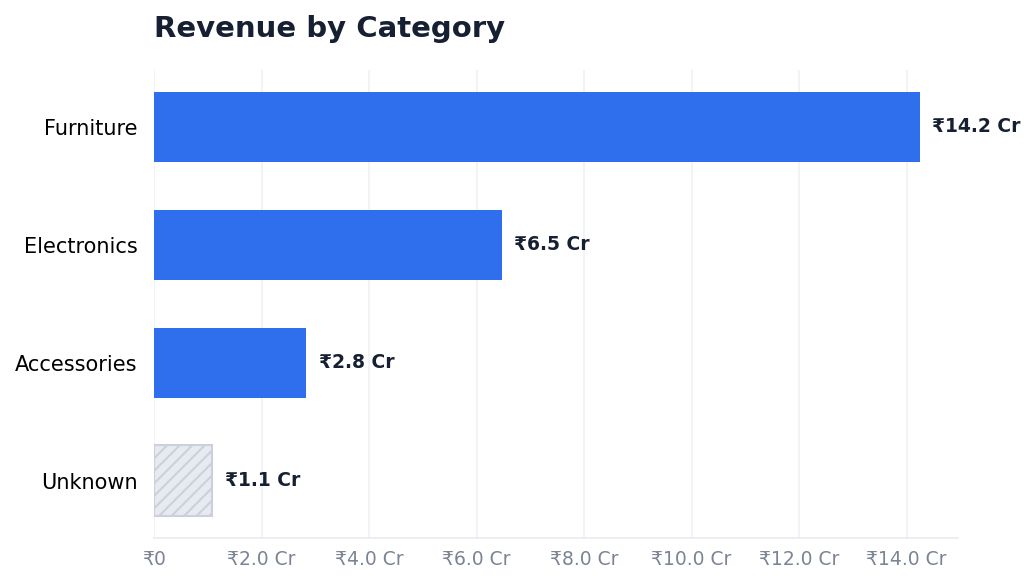
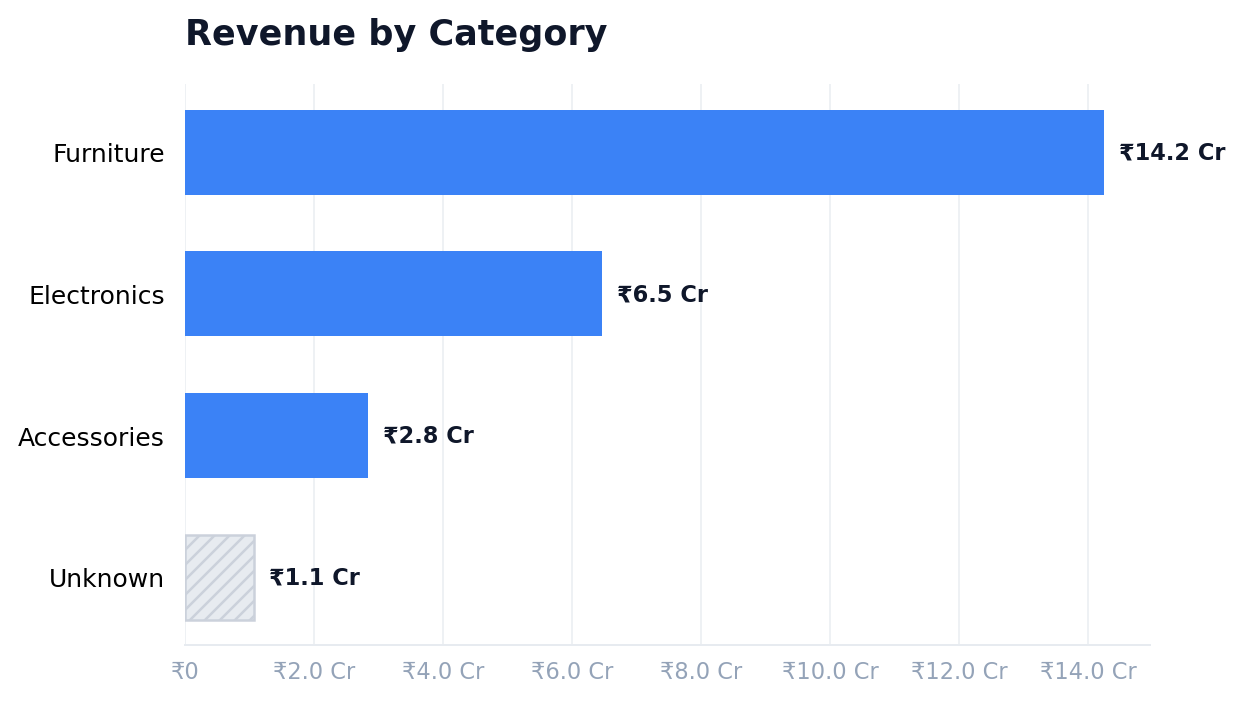
feat: implement sales report generation and visual chart export functionality

diff --git a/reports/business-performance-report.html b/reports/business-performance-report.html
@@ -7,22 +7,22 @@
 
     <style>
         :root {
-            --bg: #f3f6fa;
+            --bg: #f4f7fe;
             --surface: #ffffff;
-            --surface-soft: #f7f9fc;
-            --border: #e7ebf0;
-            --text: #172033;
-            --muted: #7b8494;
-            --primary: #2f6fed;
-            --primary-soft: #edf3ff;
-            --success: #159570;
-            --success-soft: #eaf8f3;
-            --warning: #c77b16;
-            --warning-soft: #fff7e8;
-            --danger: #e05252;
-            --danger-soft: #fff0f0;
-            --shadow: 0 8px 24px rgba(25, 39, 67, 0.055);
-            --radius: 18px;
+            --surface-soft: #f8f9fa;
+            --border: #e2e8f0;
+            --text: #1e293b;
+            --muted: #64748b;
+            --primary: #3b82f6;
+            --primary-soft: #eff6ff;
+            --success: #10b981;
+            --success-soft: #d1fae5;
+            --warning: #f59e0b;
+            --warning-soft: #fef3c7;
+            --danger: #ef4444;
+            --danger-soft: #fee2e2;
+            --shadow: 0 10px 40px -10px rgba(0,0,0,0.08);
+            --radius: 20px;
         }
 
         * { box-sizing: border-box; }
@@ -117,12 +117,14 @@
         .kpi-card {
             position: relative;
             overflow: hidden;
-            min-height: 108px;
-            padding: 16px 18px;
-            border: 1px solid var(--border);
+            min-height: 120px;
+            padding: 20px 24px;
             border-radius: var(--radius);
             background: var(--surface);
             box-shadow: var(--shadow);
+            display: flex;
+            flex-direction: column;
+            justify-content: space-between;
         }
 
         .kpi-card::after {
@@ -140,33 +142,36 @@
             position: relative;
             z-index: 1;
             color: var(--muted);
-            font-size: 10px;
-            font-weight: 800;
-            letter-spacing: .08em;
-            text-transform: uppercase;
+            font-size: 13px;
+            font-weight: 600;
         }
 
         .kpi-value {
             position: relative;
             z-index: 1;
-            margin-top: 6px;
-            font-size: clamp(21px, 2.5vw, 29px);
+            margin-top: 8px;
+            font-size: clamp(24px, 3vw, 32px);
             font-weight: 800;
-            line-height: 1.05;
-            letter-spacing: -.03em;
+            line-height: 1.1;
+            color: var(--text);
         }
 
         .kpi-context {
             position: relative;
             z-index: 1;
-            margin-top: 6px;
-            color: var(--muted);
-            font-size: 10px;
+            margin-top: 8px;
+            font-size: 11px;
+            font-weight: 600;
+            display: inline-flex;
+            align-items: center;
+            padding: 4px 8px;
+            border-radius: 999px;
+            width: max-content;
         }
 
-        .kpi-danger::after { background: var(--danger-soft); }
-        .kpi-success::after { background: var(--success-soft); }
-        .kpi-warning::after { background: var(--warning-soft); }
+        .kpi-danger .kpi-context { background: var(--danger-soft); color: var(--danger); }
+        .kpi-success .kpi-context { background: var(--success-soft); color: var(--success); }
+        .kpi-warning .kpi-context { background: var(--warning-soft); color: var(--warning); }
 
         /* Main visual hierarchy */
         .hero-grid {
@@ -176,7 +181,7 @@
         }
 
         .panel {
-            border: 1px solid var(--border);
+            border: none;
             border-radius: var(--radius);
             background: var(--surface);
             box-shadow: var(--shadow);
@@ -246,13 +251,12 @@
 
         .highlight-card {
             display: grid;
-            grid-template-columns: 34px 1fr auto;
+            grid-template-columns: 42px 1fr auto;
             align-items: center;
-            gap: 10px;
-            min-height: 56px;
-            padding: 9px 10px;
-            border: 1px solid var(--border);
-            border-radius: 12px;
+            gap: 12px;
+            min-height: 64px;
+            padding: 12px;
+            border-radius: 16px;
             background: var(--surface-soft);
         }
 
@@ -350,7 +354,7 @@
 
         .chart-card {
             overflow: hidden;
-            border: 1px solid var(--border);
+            border: none;
             border-radius: var(--radius);
             background: var(--surface);
             box-shadow: var(--shadow);
@@ -395,9 +399,9 @@
         }
 
         .recommendation-card {
-            padding: 15px;
-            border: 1px solid var(--border);
-            border-radius: 14px;
+            padding: 20px;
+            border: none;
+            border-radius: var(--radius);
             background: var(--surface);
             box-shadow: var(--shadow);
         }

diff --git a/src/reporting/html.py b/src/reporting/html.py
@@ -21,22 +21,22 @@ def render_html_report(report, charts, output_path):
 
     <style>
         :root {{
-            --bg: #f3f6fa;
+            --bg: #f4f7fe;
             --surface: #ffffff;
-            --surface-soft: #f7f9fc;
-            --border: #e7ebf0;
-            --text: #172033;
-            --muted: #7b8494;
-            --primary: #2f6fed;
-            --primary-soft: #edf3ff;
-            --success: #159570;
-            --success-soft: #eaf8f3;
-            --warning: #c77b16;
-            --warning-soft: #fff7e8;
-            --danger: #e05252;
-            --danger-soft: #fff0f0;
-            --shadow: 0 8px 24px rgba(25, 39, 67, 0.055);
-            --radius: 18px;
+            --surface-soft: #f8f9fa;
+            --border: #e2e8f0;
+            --text: #1e293b;
+            --muted: #64748b;
+            --primary: #3b82f6;
+            --primary-soft: #eff6ff;
+            --success: #10b981;
+            --success-soft: #d1fae5;
+            --warning: #f59e0b;
+            --warning-soft: #fef3c7;
+            --danger: #ef4444;
+            --danger-soft: #fee2e2;
+            --shadow: 0 10px 40px -10px rgba(0,0,0,0.08);
+            --radius: 20px;
         }}
 
         * {{ box-sizing: border-box; }}
@@ -131,12 +131,14 @@ def render_html_report(report, charts, output_path):
         .kpi-card {{
             position: relative;
             overflow: hidden;
-            min-height: 108px;
-            padding: 16px 18px;
-            border: 1px solid var(--border);
+            min-height: 120px;
+            padding: 20px 24px;
             border-radius: var(--radius);
             background: var(--surface);
             box-shadow: var(--shadow);
+            display: flex;
+            flex-direction: column;
+            justify-content: space-between;
         }}
 
         .kpi-card::after {{
@@ -154,33 +156,36 @@ def render_html_report(report, charts, output_path):
             position: relative;
             z-index: 1;
             color: var(--muted);
-            font-size: 10px;
-            font-weight: 800;
-            letter-spacing: .08em;
-            text-transform: uppercase;
+            font-size: 13px;
+            font-weight: 600;
         }}
 
         .kpi-value {{
             position: relative;
             z-index: 1;
-            margin-top: 6px;
-            font-size: clamp(21px, 2.5vw, 29px);
+            margin-top: 8px;
+            font-size: clamp(24px, 3vw, 32px);
             font-weight: 800;
-            line-height: 1.05;
-            letter-spacing: -.03em;
+            line-height: 1.1;
+            color: var(--text);
         }}
 
         .kpi-context {{
             position: relative;
             z-index: 1;
-            margin-top: 6px;
-            color: var(--muted);
-            font-size: 10px;
+            margin-top: 8px;
+            font-size: 11px;
+            font-weight: 600;
+            display: inline-flex;
+            align-items: center;
+            padding: 4px 8px;
+            border-radius: 999px;
+            width: max-content;
         }}
 
-        .kpi-danger::after {{ background: var(--danger-soft); }}
-        .kpi-success::after {{ background: var(--success-soft); }}
-        .kpi-warning::after {{ background: var(--warning-soft); }}
+        .kpi-danger .kpi-context {{ background: var(--danger-soft); color: var(--danger); }}
+        .kpi-success .kpi-context {{ background: var(--success-soft); color: var(--success); }}
+        .kpi-warning .kpi-context {{ background: var(--warning-soft); color: var(--warning); }}
 
         /* Main visual hierarchy */
         .hero-grid {{
@@ -190,7 +195,7 @@ def render_html_report(report, charts, output_path):
         }}
 
         .panel {{
-            border: 1px solid var(--border);
+            border: none;
             border-radius: var(--radius);
             background: var(--surface);
             box-shadow: var(--shadow);
@@ -260,13 +265,12 @@ def render_html_report(report, charts, output_path):
 
         .highlight-card {{
             display: grid;
-            grid-template-columns: 34px 1fr auto;
+            grid-template-columns: 42px 1fr auto;
             align-items: center;
-            gap: 10px;
-            min-height: 56px;
-            padding: 9px 10px;
-            border: 1px solid var(--border);
-            border-radius: 12px;
+            gap: 12px;
+            min-height: 64px;
+            padding: 12px;
+            border-radius: 16px;
             background: var(--surface-soft);
         }}
 
@@ -364,7 +368,7 @@ def render_html_report(report, charts, output_path):
 
         .chart-card {{
             overflow: hidden;
-            border: 1px solid var(--border);
+            border: none;
             border-radius: var(--radius);
             background: var(--surface);
             box-shadow: var(--shadow);
@@ -409,9 +413,9 @@ def render_html_report(report, charts, output_path):
         }}
 
         .recommendation-card {{
-            padding: 15px;
-            border: 1px solid var(--border);
-            border-radius: 14px;
+            padding: 20px;
+            border: none;
+            border-radius: var(--radius);
             background: var(--surface);
             box-shadow: var(--shadow);
         }}

diff --git a/src/reporting/charts.py b/src/reporting/charts.py
@@ -2,15 +2,16 @@ import matplotlib.pyplot as plt
 from matplotlib.ticker import FuncFormatter
 
 # Business dashboard colors
-PRIMARY = "#2f6fed"
-MUTED = "#7b8494"
-DANGER = "#e05252"
-TEXT = "#172033"
+PRIMARY = "#3b82f6"  # Vibrant blue
+PRIMARY_FILL = "#dbeafe"
+MUTED = "#94a3b8"
+DANGER = "#ef4444"
+TEXT = "#0f172a"
 
 
 def _save_figure(figure, output_path):
     output_path.parent.mkdir(parents=True, exist_ok=True)
-    figure.savefig(output_path, bbox_inches="tight", dpi=150, transparent=True)
+    figure.savefig(output_path, bbox_inches="tight", dpi=180, transparent=True)
     plt.close(figure)
     return output_path
 
@@ -112,16 +113,12 @@ def plot_monthly_revenue(report, output_dir):
     months = dataframe["Month"].astype(str)
     revenue = dataframe["Revenue"]
 
-    axis.plot(months, revenue, marker="o", linewidth=2.5, color=PRIMARY, markersize=5)
+    axis.plot(months, revenue, marker="o", linewidth=3, color=PRIMARY, markersize=6)
+    
+    # Area chart fill
+    axis.fill_between(months, revenue, color=PRIMARY, alpha=0.15)
 
-    axis.set_title(
-        "Monthly Revenue",
-        fontsize=14,
-        fontweight="bold",
-        color=TEXT,
-        pad=16,
-        loc="left",
-    )
+    axis.set_title("Monthly Revenue", fontsize=15, fontweight="bold", color=TEXT, pad=20, loc="left")
     axis.set_xlabel("")
     axis.set_ylabel("")
     axis.yaxis.set_major_formatter(FuncFormatter(_format_revenue))
